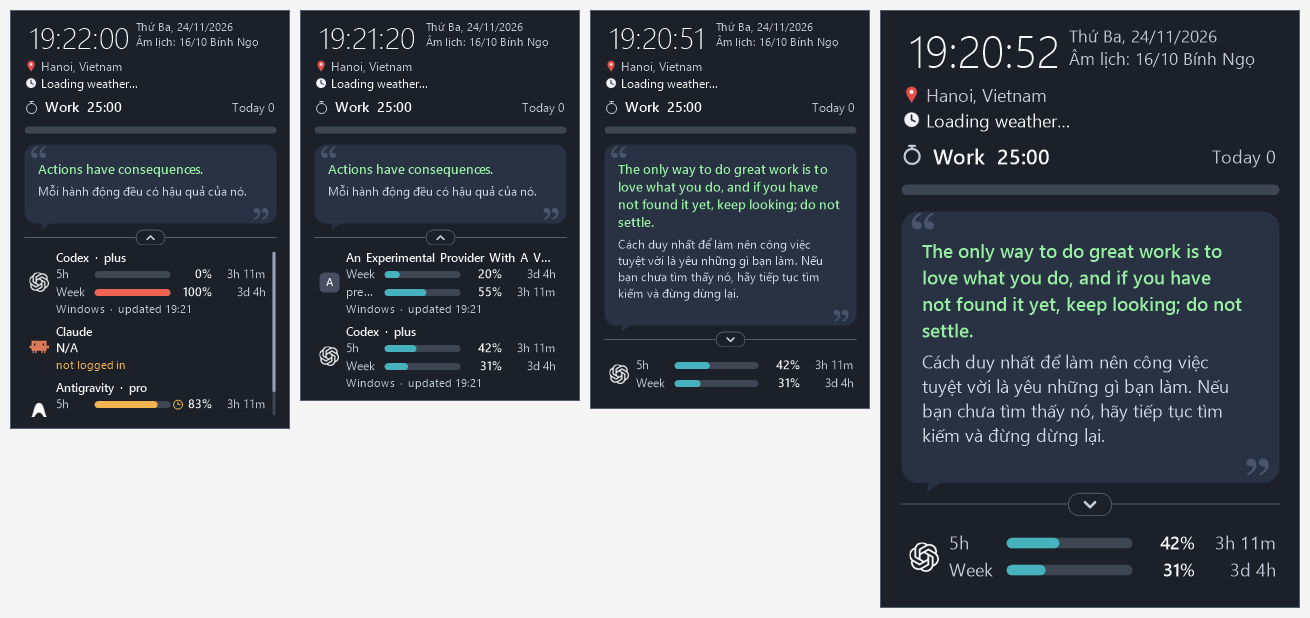
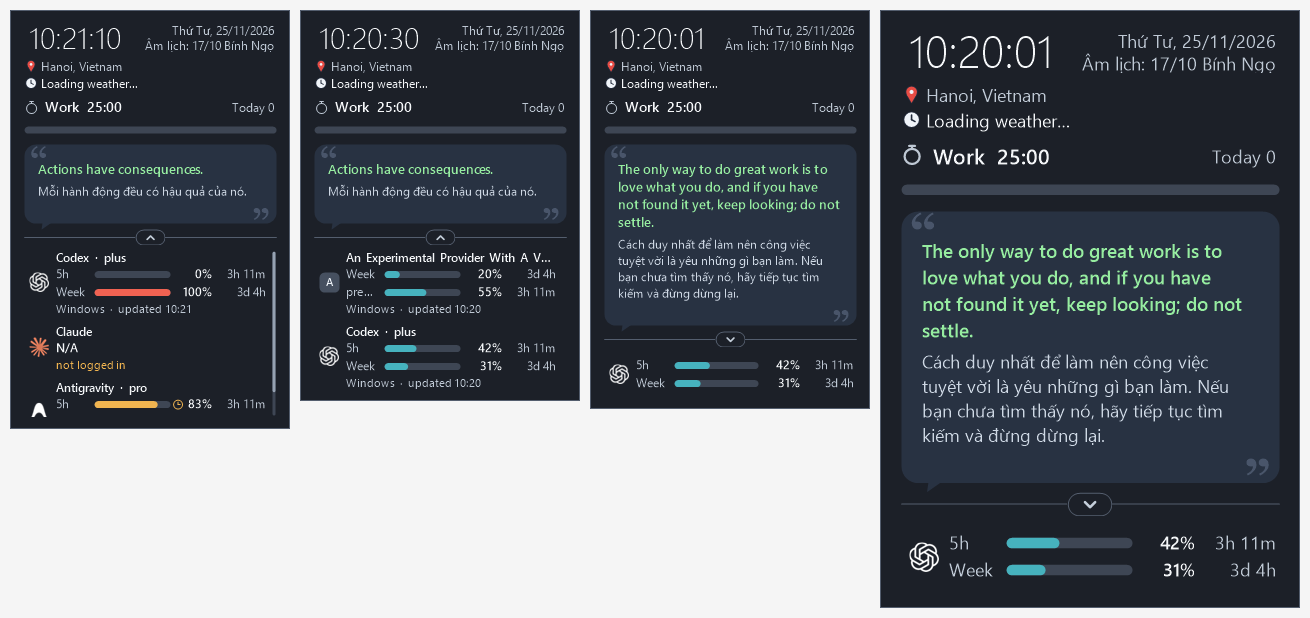
docs: show the official Claude Spark in the expanded preview and word the GIF caption exactly
Regenerates preview-expanded-states-and-long-quote.png (it still showed the
retired Claude drawing), says the clip is mostly real captures with a stylised
taskbar strip, and re-renders the tray scene to say Ctrl+H works while the
widget has the keyboard focus.

diff --git a/CHANGELOG.md b/CHANGELOG.md
@@ -9,7 +9,7 @@ and this project adheres to [Semantic Versioning](https://semver.org/spec/v2.0.0
 
 ### Added
 
-- **New README intro GIF** (`docs/intro.gif`, 19 s, 720 px wide, loops): made with the motion-video workflow (HyperFrames) from real captures of the current build on sample data: the logo, the widget (clock, solar and Vietnamese lunar date, weather, Pomodoro, English sentence with its Vietnamese translation), the Pomodoro in Idle, Work and Rest, AI usage for Codex and Claude Code in Compact and Expanded, weather effects, the taskbar robot and the Hide to tray menu. The README text and feature list describe the current app (widget as the default mode, tray, weather effects). Documentation only.
+- **New README intro GIF** (`docs/intro.gif`, 19 s, 720 px wide, loops): made with the motion-video workflow (HyperFrames) mostly from real captures of the current build on sample data (the taskbar strip is stylised): the logo, the widget (clock, solar and Vietnamese lunar date, weather, Pomodoro, English sentence with its Vietnamese translation), the Pomodoro in Idle, Work and Rest, AI usage for Codex and Claude Code in Compact and Expanded, weather effects, the taskbar robot and the Hide to tray menu. The README text and feature list describe the current app (widget as the default mode, tray, weather effects), and the expanded AI usage preview now shows the official Claude Spark instead of the retired drawing. Documentation only.
 - **Widget mode is the default start mode, with hide to tray** (issue 57): a new **Start in** setting (Widget, the new default; Normal window; Remember last) in the Settings menus, the widget menu and the tray menu, saved in `widget.json` (a missing or damaged file means Widget; an existing install that never saved the setting now starts as the widget: pick Normal window or Remember last to keep the old behaviour). The widget can be hidden to the tray with **Hide to tray** in its right-click menu or **Ctrl+H**; in widget mode the tray icon is always present (click hides or shows, double click shows) and its menu has Show or Hide widget, Normal window, Start Pomodoro, Settings and Exit. While hidden there is no taskbar button and the effect timer and the clock tick make no tick, while the weather, usage and Pomodoro timers and their alerts keep working; showing the widget again restores its position (moved onto a visible work area if needed) and opacity. Starting a second copy while the widget is hidden shows the first one.
 - **Weather effects on the widget** (new **Settings > Weather effects...**): a faint animation behind the widget's content from the weather it already shows: sun glints (clear, day), twinkling stars (clear, night), drifting clouds (partly cloudy to overcast, denser as cloudier), haze (fog), falling streaks (drizzle, rain and showers by intensity, icy-tinted for freezing rain), slow flakes (snow and snow grains) and heavy rain with a rare soft flash (thunderstorm), with day and night colours, a cross-fade when the weather changes, and nothing for an unknown weather. On by default at the light **Low** intensity (**Normal** is the full effect); **Reduce motion**, or Windows animations turned off, shows one still picture. The effect has its own timer (about 15 frames a second) that makes no tick while it is off, or the widget is minimised, hidden, in the tray, covered, the session locked or the computer asleep; it uses a bounded, pooled set of particles with cached drawing objects, never changes the widget's size or layout, and keeps the text at a contrast of 4.5:1 (secondary) and 7:1 (primary) or more with up to 4 overlapping streaks, flakes or cloud puffs and a thunderstorm's flash on top (a test composites the renderer's own colours and opacities), so the effect is subtle by design; a thunderstorm flashes once every 15 to 40 seconds. Saved atomically in `%AppData%\PomoQuote\weather-effects.json`.
 - **Widget redesign (AI Usage, quote, bars)**: the usage area has two layouts. **Compact** shows one provider at a time in at most three lines with its logo on the far left (name, plan, source and update time in the logo's tooltip; wheel over the logo, click or arrow keys to switch provider; a badge for error, stale data or near limit); **Expanded** shows every enabled provider as a plain block (full name, plan, every window, percent, countdown, source, update time; no card, border or background) and scrolls only its own area. A small arrow button, centred on a separator line under the quote bubble, switches the layout; the layout and the selected provider are remembered after a restart, and the provider order of Settings is used. New pill progress bars for the timer and the quotas (no stray dot at 0%), `N/A` instead of 0% when a quota is missing, a clock icon and tooltip for stale data, tooltips with the exact used, left and reset time, windows named by their real length, an "updating" mark for the provider being read (its last numbers stay), larger text (12 px), better contrast for the secondary text, and the sentence in a message-bubble card that wraps instead of cutting the text. The widget is now 280 px wide at 100%.

diff --git a/README.md b/README.md
@@ -8,7 +8,7 @@
 
 ![PomoQuote intro, 19 seconds: the logo; the widget with the clock, the solar and Vietnamese lunar date, weather, the Pomodoro timer and an English sentence with its Vietnamese translation; the Pomodoro in Idle, Work and Rest; AI usage for Codex and Claude Code in Compact and Expanded; weather effects (rain at night, snow by day); the taskbar robot and the Hide to tray menu](docs/intro.gif)
 
-*The clip is made from real captures of the app on sample data (no account, path or personal information is shown); the weather effects are brightened in it so they show in a small GIF.*
+*The clip is made mostly from real captures of the app on sample data (no account, path or personal information is shown). The taskbar strip with the robot is stylised (the robot is the real sprite sheet on a drawn bar, not a screenshot of a desktop), and the weather effects are brightened so they show in a small GIF. Ctrl+H hides the widget while it has the keyboard focus.*
 
 **PomoQuote** is a Windows desktop app for focused work and learning English. It opens as a small always-on-top **widget** that keeps an English sentence with its Vietnamese translation in front of you, next to the time and date (with the Vietnamese lunar date), the weather (with faint weather effects behind it), a Pomodoro timer and, if you turn it on, how much of your Codex and Claude Code quota is used. The widget hides to the tray when you do not need it, there is a normal window with an analog clock too, and a small pixel-art robot walks along your taskbar while you work.
 
